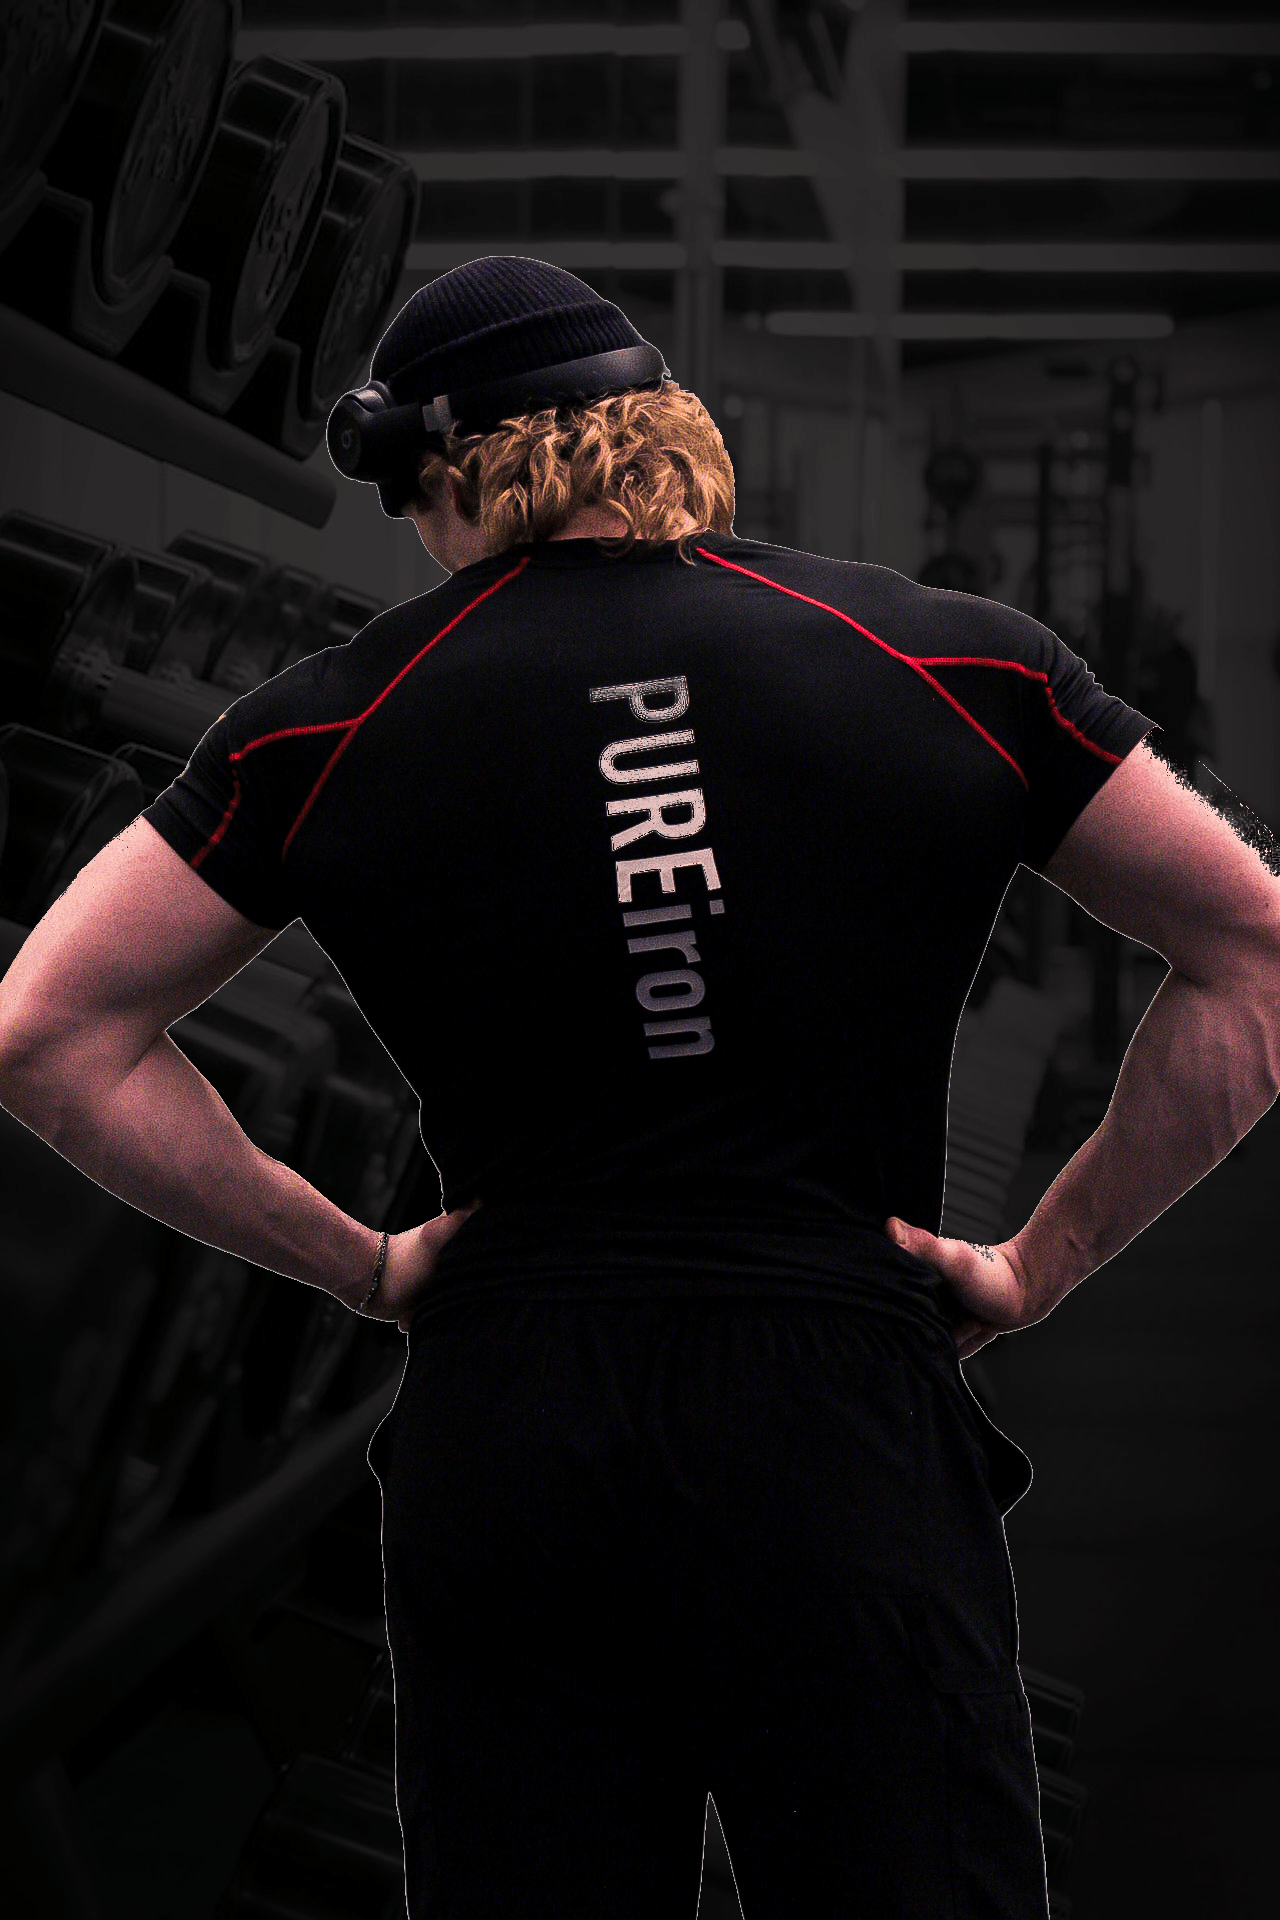
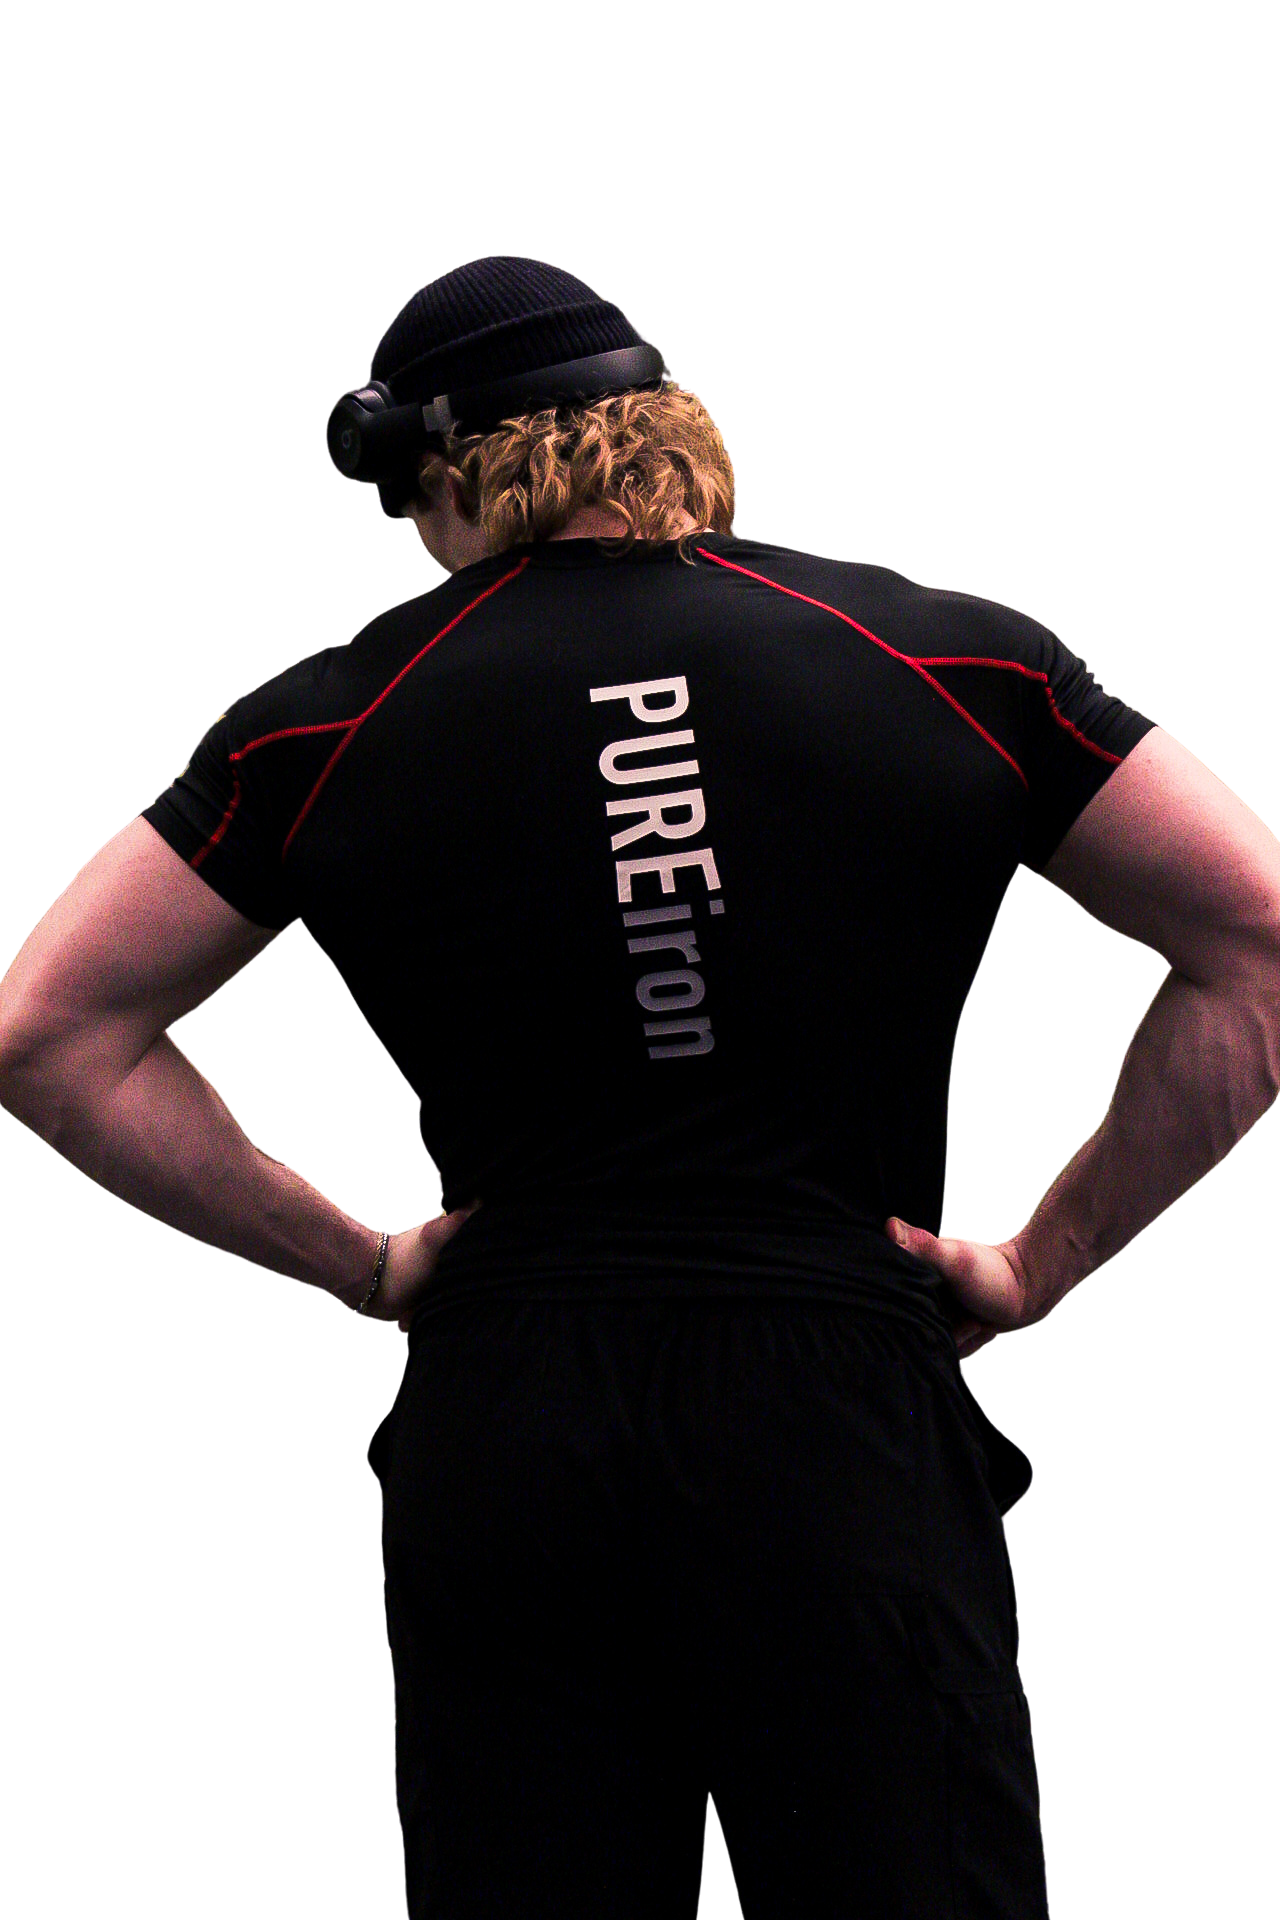
revert: restore original product photos with CSS vignette overlay
Reverted gym background compositing back to original white-background
studio photos with CSS vignette blending. Price ($39.99) and heat
transfer description kept.

diff --git a/src/app/shop/[slug]/page.tsx b/src/app/shop/[slug]/page.tsx
@@ -69,10 +69,18 @@ export default function ProductDetailPage() {
                 src={product.images[selectedImage]}
                 alt={product.name}
                 fill
-                className="object-cover"
+                className={`${product.imageBlend ? 'object-contain object-[center_20%]' : 'object-cover'}`}
                 sizes="(max-width: 1024px) 100vw, 50vw"
                 priority
               />
+              {product.imageBlend && (
+                <div className="absolute inset-0 pointer-events-none" style={{
+                  background: `
+                    radial-gradient(ellipse at center, transparent 30%, rgba(26,26,26,0.5) 60%, #1A1A1A 85%),
+                    linear-gradient(to bottom, rgba(26,26,26,0.5) 0%, transparent 12%, transparent 80%, rgba(26,26,26,0.7) 100%)
+                  `
+                }} />
+              )}
               {product.badge && (
                 <span className="absolute top-4 left-4 bg-iron-red text-white text-xs font-heading uppercase tracking-wider px-3 py-1 rounded-full">
                   {product.badge}
@@ -89,7 +97,13 @@ export default function ProductDetailPage() {
                     selectedImage === i ? 'border-iron-red' : 'border-transparent opacity-60 hover:opacity-100'
                   }`}
                 >
-                  <Image src={img} alt={`${product.name} ${i + 1}`} fill className="object-cover" sizes="80px" />
+                  <Image
+                    src={img}
+                    alt={`${product.name} ${i + 1}`}
+                    fill
+                    className={product.imageBlend ? 'object-cover object-[center_15%]' : 'object-cover'}
+                    sizes="80px"
+                  />
                 </button>
               ))}
             </div>

diff --git a/src/components/ProductCard.tsx b/src/components/ProductCard.tsx
@@ -25,9 +25,19 @@ export default function ProductCard({ product, onQuickView }: ProductCardProps) 
             src={product.images[0]}
             alt={product.name}
             fill
-            className="object-cover transition-transform duration-500 group-hover:scale-110"
+            className={`transition-transform duration-500 group-hover:scale-110 object-cover ${
+              product.imageBlend ? 'object-[center_15%]' : ''
+            }`}
             sizes="(max-width: 640px) 100vw, (max-width: 1024px) 50vw, 25vw"
           />
+          {product.imageBlend && (
+            <div className="absolute inset-0 pointer-events-none" style={{
+              background: `
+                radial-gradient(ellipse at center, transparent 25%, rgba(26,26,26,0.4) 55%, #1A1A1A 80%),
+                linear-gradient(to bottom, rgba(26,26,26,0.6) 0%, transparent 15%, transparent 75%, rgba(26,26,26,0.8) 100%)
+              `
+            }} />
+          )}
           {/* Hover overlay */}
           <div className="absolute inset-0 bg-gradient-to-t from-iron-black/80 via-transparent to-transparent opacity-0 group-hover:opacity-100 transition-opacity duration-300" />
 

diff --git a/src/components/QuickViewModal.tsx b/src/components/QuickViewModal.tsx
@@ -53,13 +53,18 @@ export default function QuickViewModal({ product, onClose }: QuickViewModalProps
           onClick={(e) => e.stopPropagation()}
         >
           {/* Image */}
-          <div className="relative aspect-square">
+          <div className="relative aspect-square bg-iron-gray">
             <Image
               src={product.images[0]}
               alt={product.name}
               fill
-              className="object-cover"
+              className={product.imageBlend ? 'object-contain object-[center_20%]' : 'object-cover'}
             />
+            {product.imageBlend && (
+              <div className="absolute inset-0 pointer-events-none" style={{
+                background: 'radial-gradient(ellipse at center, transparent 30%, rgba(26,26,26,0.5) 60%, #1A1A1A 85%)'
+              }} />
+            )}
           </div>
 
           {/* Info */}

diff --git a/src/data/products.ts b/src/data/products.ts
@@ -9,6 +9,7 @@ export interface Product {
   sizes: string[];
   featured: boolean;
   badge?: string;
+  imageBlend?: boolean;
 }
 
 export const products: Product[] = [
@@ -29,6 +30,7 @@ export const products: Product[] = [
     sizes: ['S', 'M', 'L', 'XL', 'XXL'],
     featured: true,
     badge: 'Best Seller',
+    imageBlend: true,
   },
   // Hoodies & Tops
   {
